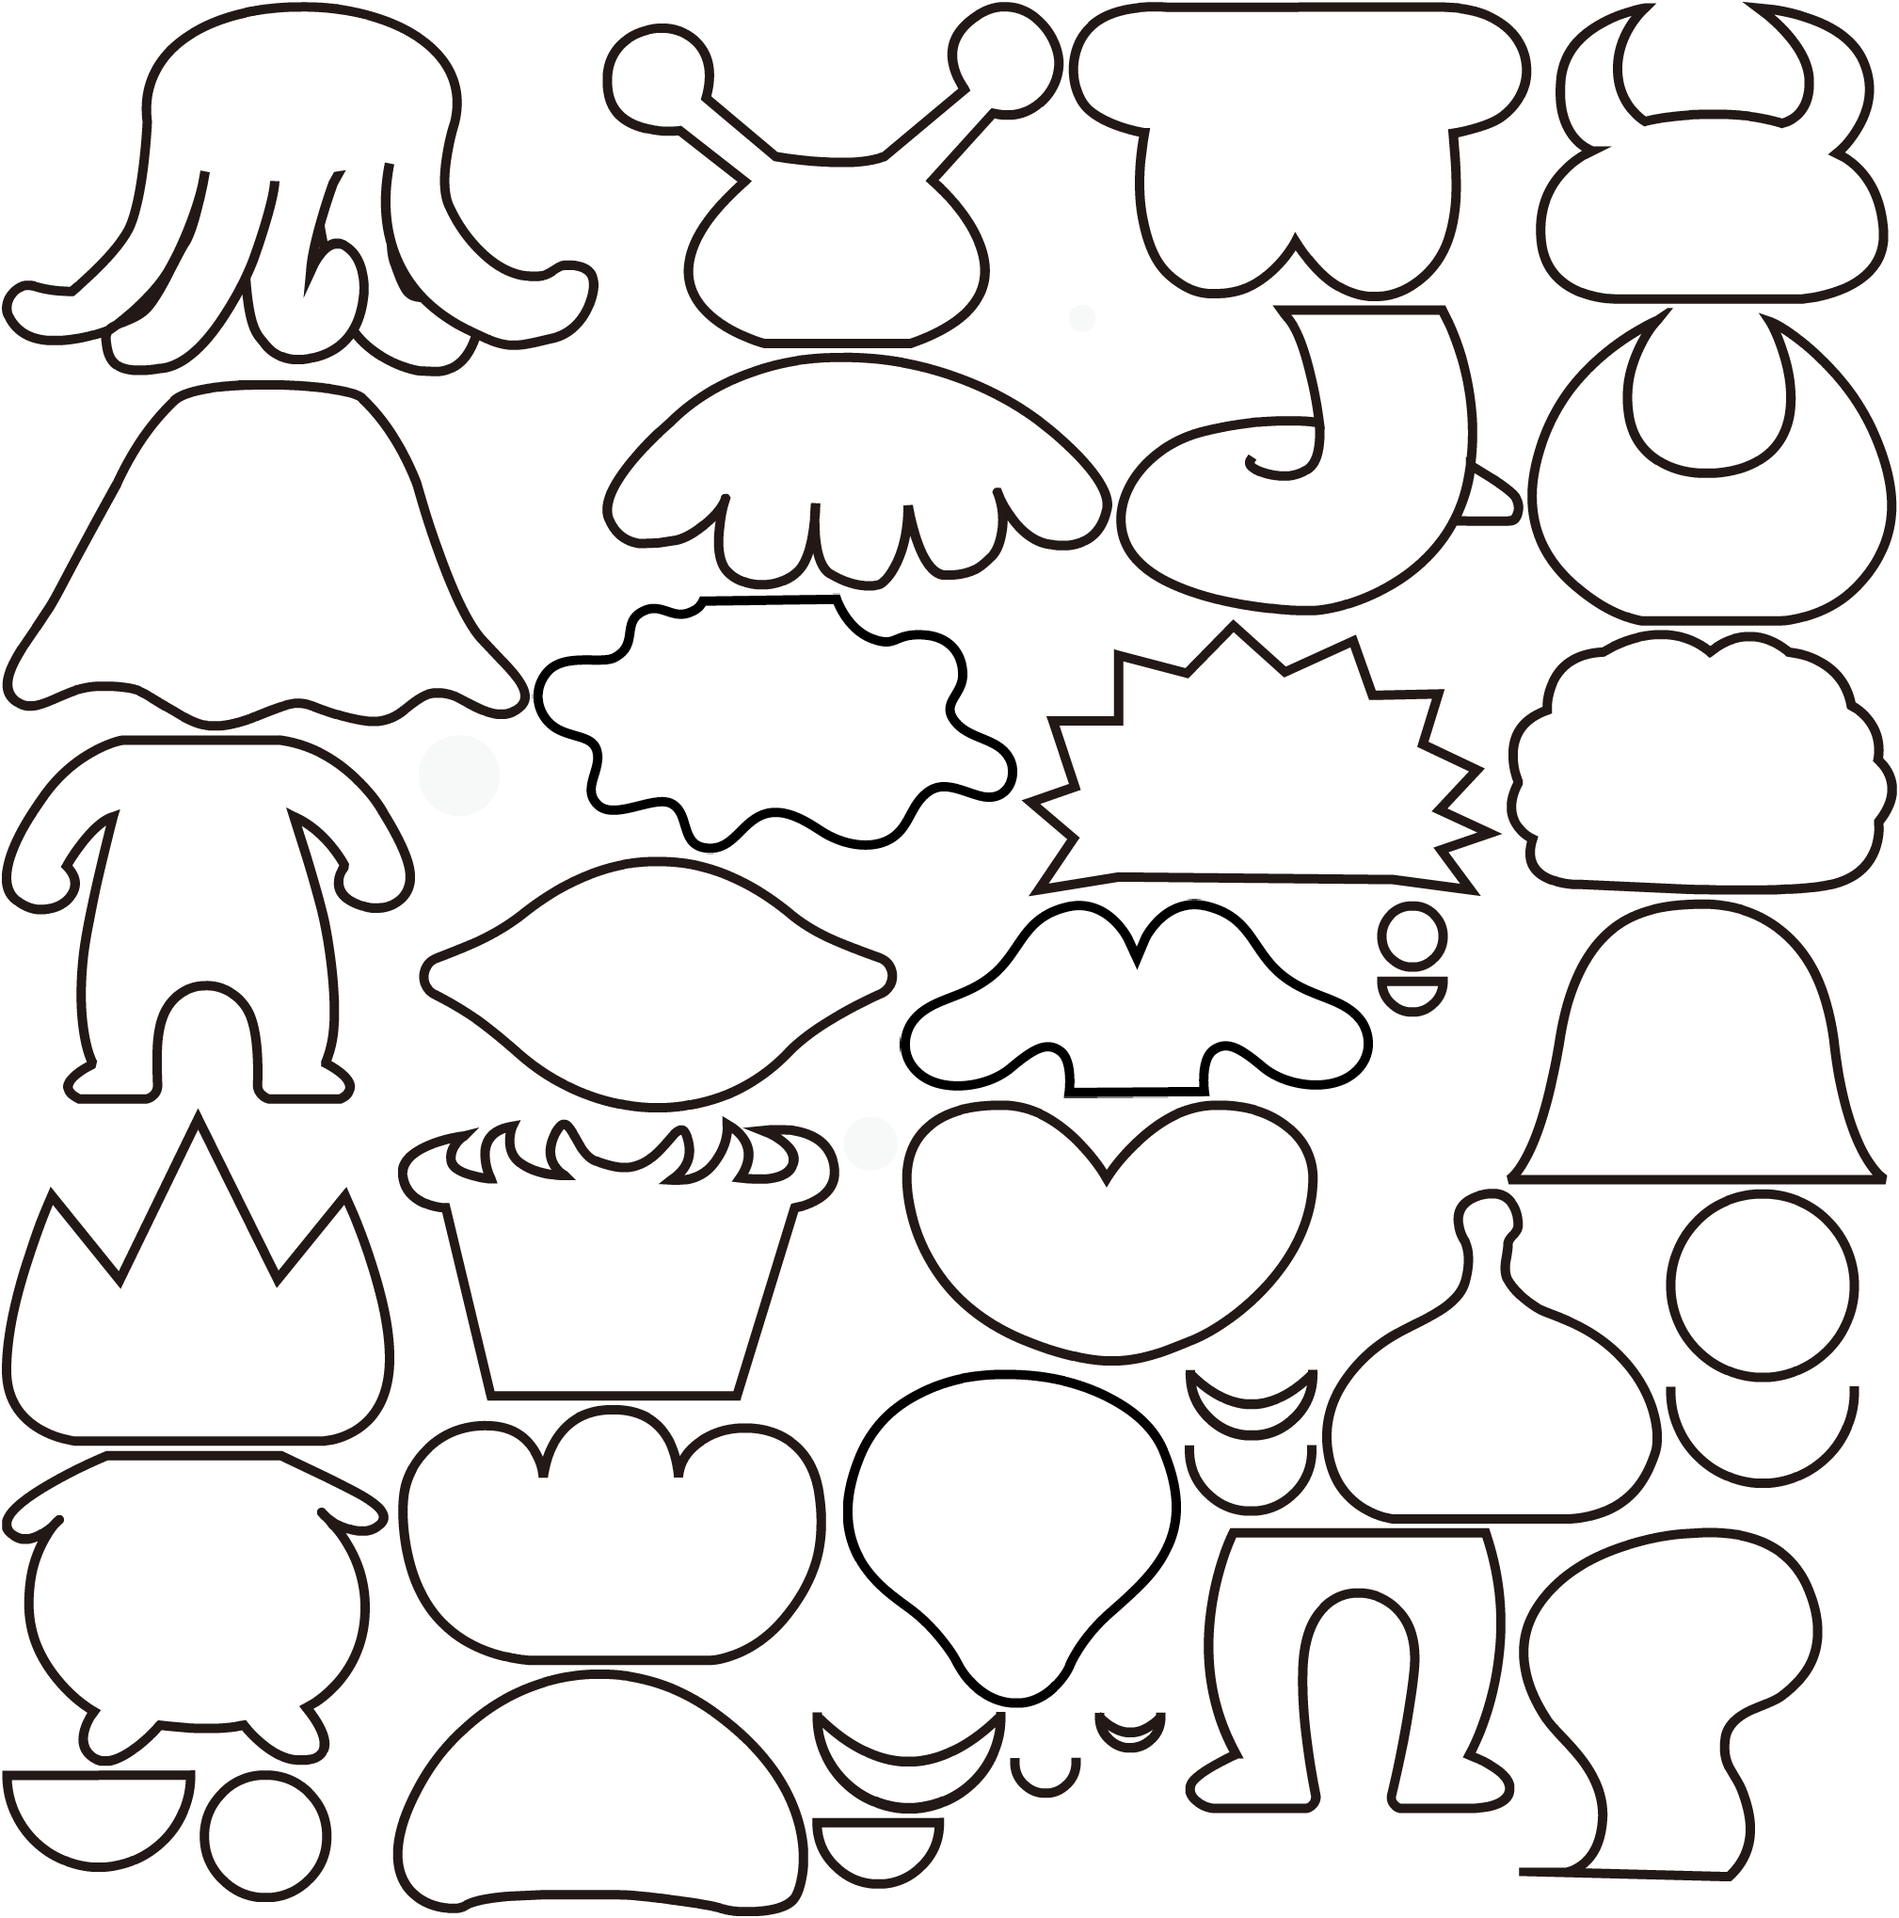
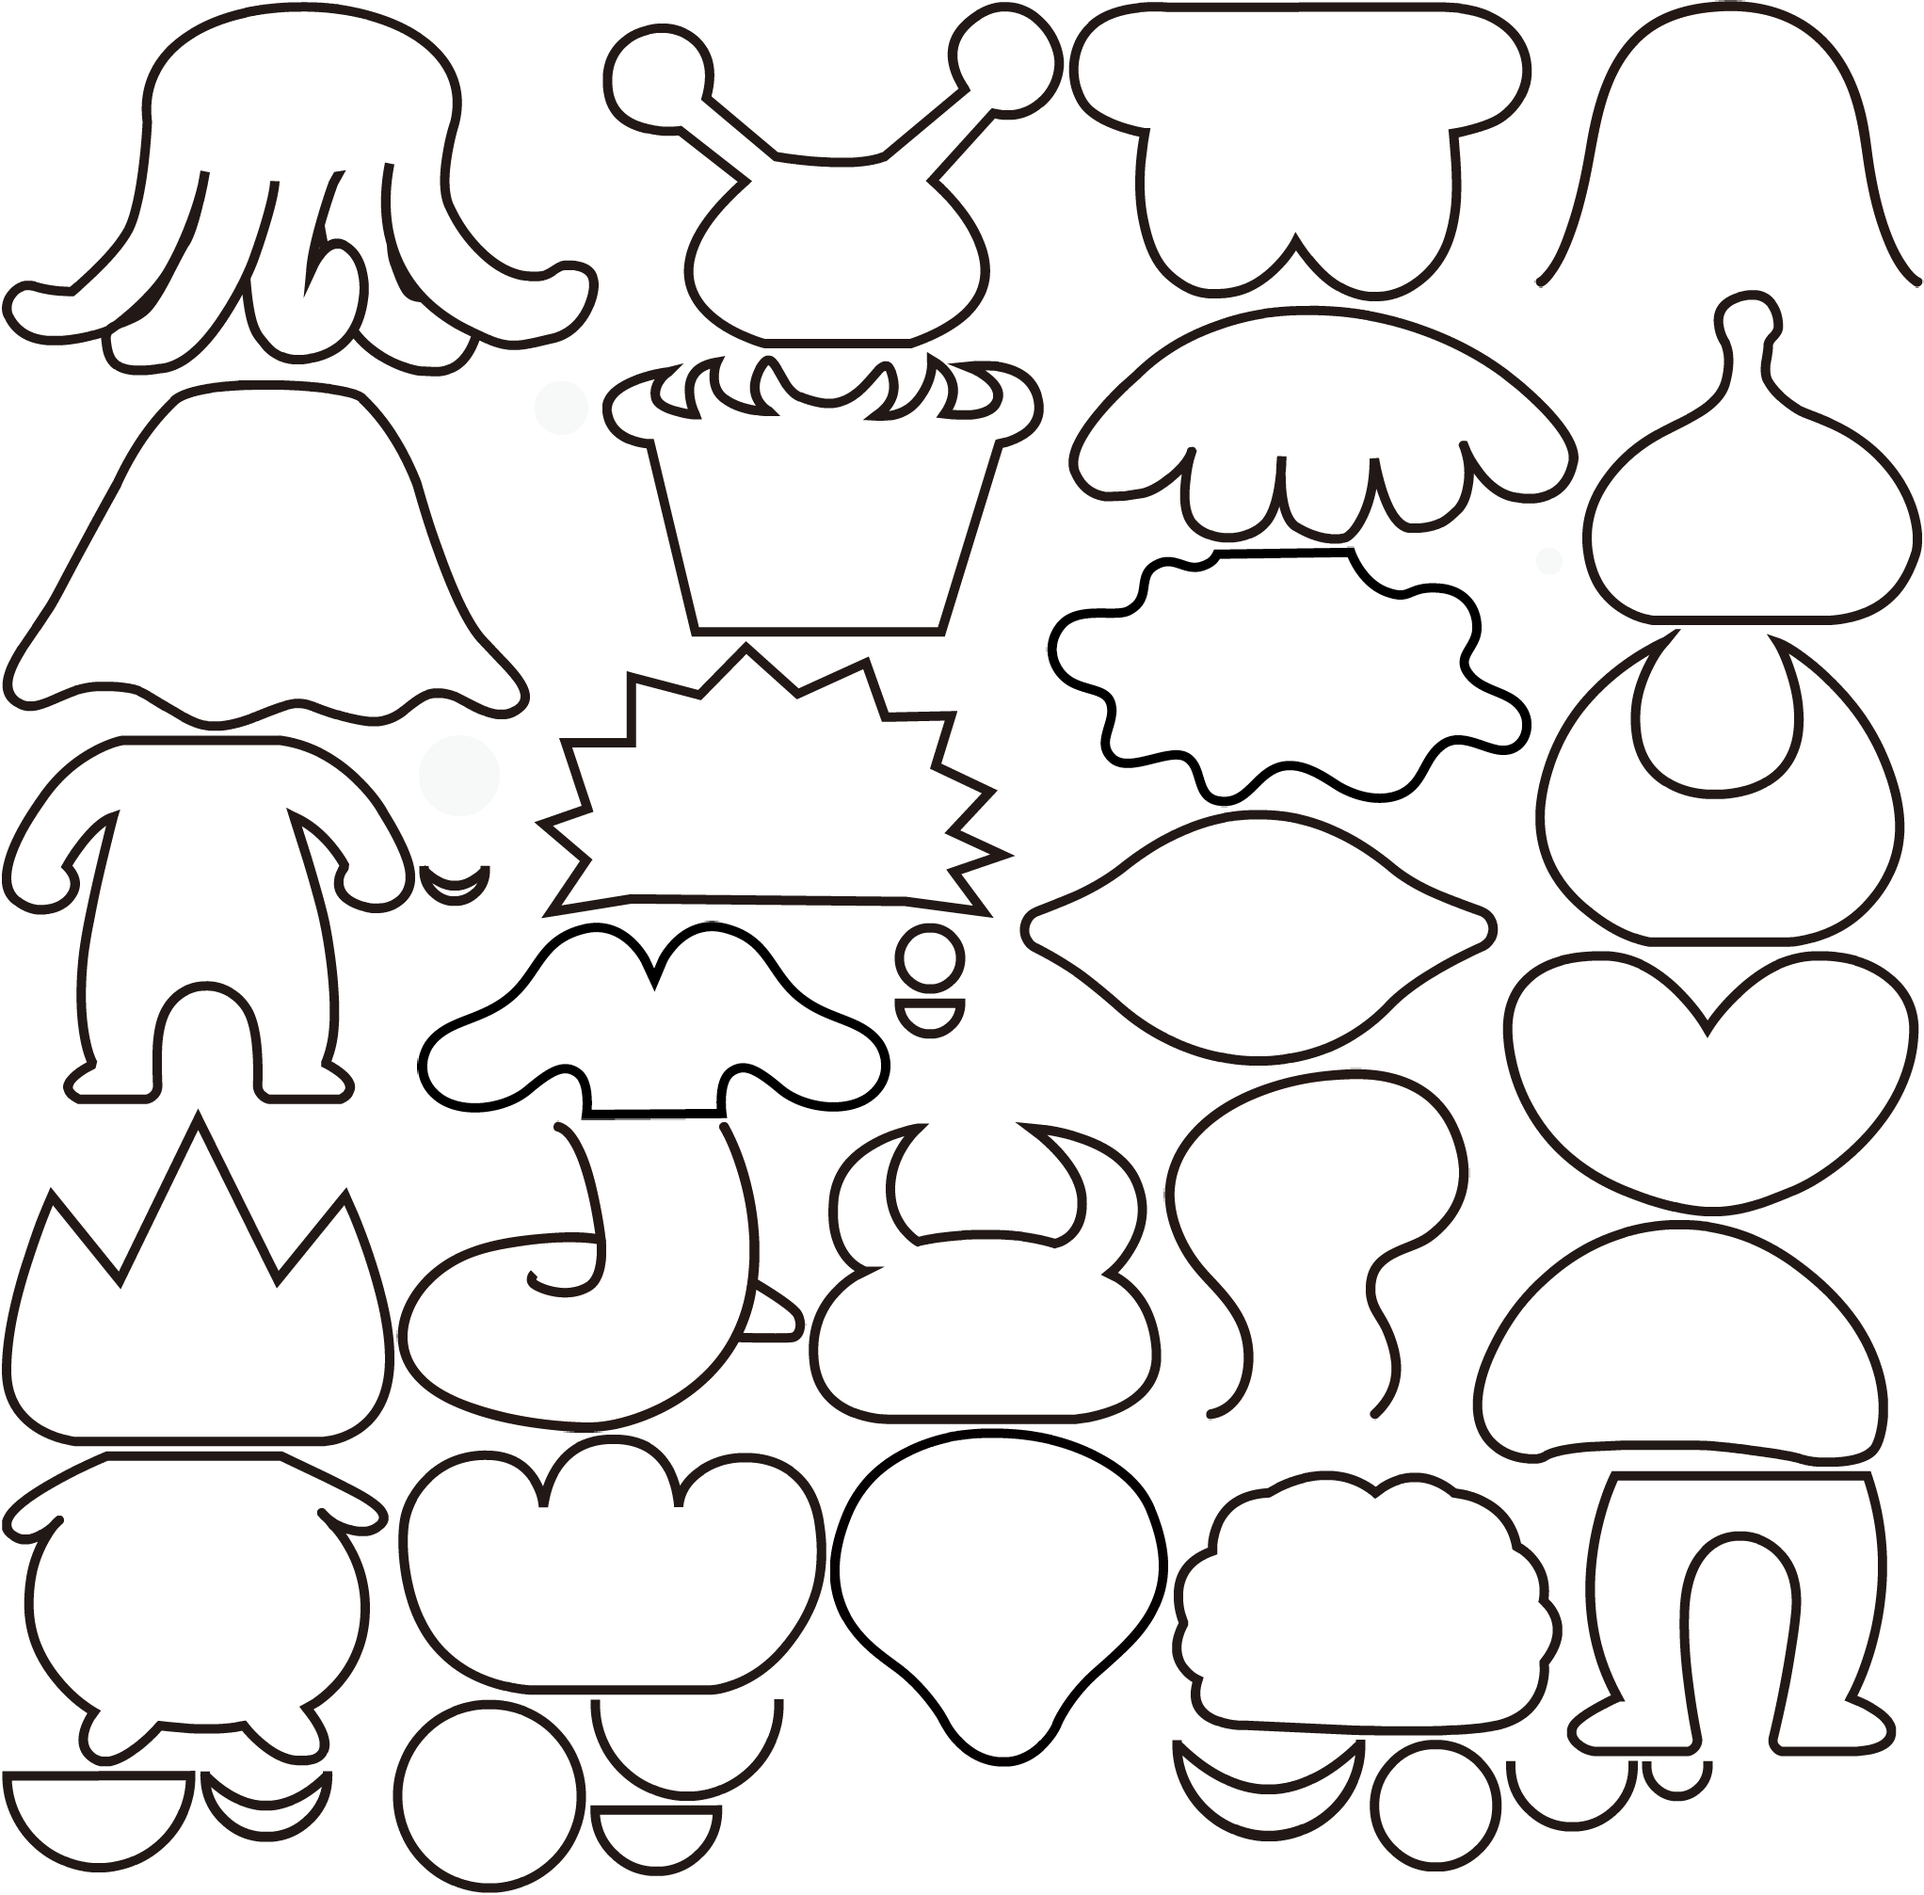
improved heads, bodies and combinations (wip)

diff --git a/alien.js b/alien.js
@@ -73,8 +73,8 @@ const bodyPartProps = {
         body15: { anchorY: 0.8 },
         body16: { anchorY: 0.7 },
         body17: { anchorY: 0.6 },
-        body18: { anchorX: 0.85, anchorY: 0.1 },
-        body19: { anchorY: 0.7 },
+        body18: { anchorX: 0.72, anchorY: 0.35 },
+        body19: { anchorY: 0.2 },
         body20: { anchorY: 0.7 },
         body21: { anchorY: 0.7 },
       },
@@ -91,7 +91,7 @@ const bodyPartProps = {
         body10: { anchorX: 0.52, anchorY: 0.7 },
         body13: { anchorX: 0.65, neckWidth: 0.3 },
         body14: { anchorY: 0.7 },
-        body18: { anchorX: 0.82, anchorY: 0.4 },
+        body18: { anchorX: 0.85, anchorY: 0.4 },
       },
     },
     // 2
@@ -108,7 +108,7 @@ const bodyPartProps = {
         body13: { anchorX: 0.67, neckWidth: 0.3 },
         body14: { anchorY: 0.75 },
         body17: { anchorY: 0.8 },
-        body18: { anchorX: 0.85, anchorY: 0.4 },
+        body18: { anchorX: 0.86, anchorY: 0.38 },
         body19: { anchorY: 0.67 },
         body21: { anchorY: 0.7 },
       },
@@ -147,7 +147,7 @@ const bodyPartProps = {
         body10: { anchorX: 0.51, anchorY: 0.6 },
         body13: { anchorX: 0.63, anchorY: 0.7, neckWidth: 0.2 },
         body14: { anchorY: 0.5 },
-        body18: { anchorX: 0.8, anchorY: 0.2 },
+        body18: { anchorX: 0.8, anchorY: 0.3 },
         body19: { anchorY: 0.5 },
         body21: { anchorY: 0.5 },
       },
@@ -204,7 +204,7 @@ const bodyPartProps = {
         body15: { anchorY: 0.7 },
         body16: { anchorY: 0.8 },
         body17: { anchorY: 0.7 },
-        body18: { anchorX: 0.85, anchorY: 0.1 },
+        body18: { anchorX: 0.86, anchorY: 0.1 },
         body19: { anchorY: 0.7 },
         body20: { anchorY: 0.8 },
         body21: { anchorY: 0.7 },
@@ -223,7 +223,7 @@ const bodyPartProps = {
         body14: { anchorY: 0.3 },
         body16: { anchorY: 0.5 },
         body17: { anchorY: 0.4 },
-        body18: { anchorX: 0.9, anchorY: 0.1 },
+        body18: { anchorX: 0.9, anchorY: 0.2 },
         body19: { anchorY: 0.4 },
         body21: { anchorY: 0.4 },
       },
@@ -231,20 +231,18 @@ const bodyPartProps = {
     // 9
     {
       anchorY: 0.9,
-      neckWidth: 1,
-      neckHeight: 0.05,
-      neckOffsetY: -0.025,
+      neckWidth: 0,
       combinations: {
-        body8: { anchorX: 0.55, anchorY: 0.65 },
-        body9: { anchorY: 0.7 }, // delete this after special combination is done
-        body11: { anchorX: 0.55, anchorY: 0.65 }, // delete this after special combination is done
-        body14: { anchorY: 0.74 },
-        body15: { anchorY: 0.74 }, // delete this after special combination is done
-        body16: { anchorY: 0.8 }, // delete this after special combination is done
-        body18: { anchorX: 0.75, anchorY: 0.18 }, // delete this after special combination is done
-        body21: { anchorY: 0.64 }, // delete this after special combination is done
+        body8: { anchorX: 0.56, anchorY: 0.65 },
+        body9: { anchorY: 0.7 },
+        body11: { anchorX: 0.545, anchorY: 0.64 },
+        body14: { anchorY: 0.72 },
+        body15: { anchorY: 0.75 },
+        body16: { anchorY: 0.83 },
+        body18: { anchorX: 0.65, anchorY: 0.27 },
+        body21: { anchorY: 0.61 },
       },
-      // speial combinations: body9, body10, body11, body12, body13, body15, body16, body17, body18, body19, body20, body21
+      // speial combinations: body10, body12, body13, body17, body18 (?), body19, body20
     },
     // 10
     {
@@ -290,10 +288,10 @@ const bodyPartProps = {
         body12: { anchorY: 0.7 },
         body13: { anchorX: 0.63, neckWidth: 0.2 },
         body14: { anchorY: 0.65 },
-        body15: { anchorY: 0.6 },
+        body15: { anchorY: 0.7 },
         body16: { anchorY: 0.77 },
         body17: { anchorY: 0.67 },
-        body18: { anchorX: 0.85, anchorY: 0.2, neckWidth: 0.25 },
+        body18: { anchorX: 0.7, anchorY: 0.25, neckWidth: 0.25 },
         body19: { anchorY: 0.7, neckWidth: 0.4 },
         body20: { anchorY: 0.8 },
         body21: { anchorY: 0.7 },
@@ -302,15 +300,21 @@ const bodyPartProps = {
     // 13
     {
       anchorY: 0.9,
-      neckWidth: 0.5,
-      neckHeight: 0.05,
-      neckOffsetY: -0.025,
+      neckWidth: 0,
       combinations: {
-        body8: { anchorY: 0.7, neckWidth: 1 },
-        body14: { anchorY: 0.7, neckWidth: 1 },
-        body16: { anchorY: 0.79, neckWidth: 1 },
+        body8: { anchorY: 0.7 },
+        body9: { anchorY: 0.93 },
+        body11: { anchorX: 0.49, anchorY: 0.95 },
+        body12: { anchorX: 0.45, anchorY: 0.7 },
+        body14: { anchorY: 0.7 },
+        body15: { anchorX: 0.43, anchorY: 0.94 },
+        body16: { anchorY: 0.85 },
+        body17: { anchorX: 0.42, anchorY: 0.93 },
+        body19: { anchorX: 0.45, anchorY: 0.5 },
+        body20: { anchorX: 0.45, anchorY: 0.85 },
+        body21: { anchorX: 0.435, anchorY: 0.9 },
       },
-      // special combinations: body9, body10, body11, body12, body13, body15, body17, body18, body19, body20, body21
+      // special combinations: body10, body13, body18, body19 (?)
     },
     // 14
     {
@@ -346,7 +350,8 @@ const bodyPartProps = {
         body11: { anchorX: 0.53, anchorY: 0.945 },
         body13: { anchorX: 0.645 },
         body14: { anchorY: 0.69 },
-        body18: { anchorX: 0.78, anchorY: 0.18 },
+        body18: { anchorX: 0.73, anchorY: 0.28 },
+        body21: { anchorY: 0.9 },
       },
       // special combinations: body3, body4, body6
     },
@@ -362,9 +367,10 @@ const bodyPartProps = {
         body7: { anchorX: 0.52, anchorY: 1.1 },
         body8: { anchorX: 0.51, anchorY: 0.98 },
         body10: { anchorX: 0.52, anchorY: 0.91 },
+        body11: { anchorX: 0.53, anchorY: 0.99 },
         body13: { anchorX: 0.645, anchorY: 0.99 },
         body14: { anchorY: 0.8 },
-        body18: { anchorX: 0.78, anchorY: 0.48 },
+        body18: { anchorX: 0.73, anchorY: 0.51 },
       },
       // special combinations: body3, body4, body6
     },
@@ -387,7 +393,7 @@ const bodyPartProps = {
         body13: { anchorX: 0.59, anchorY: 0.93, neckWidth: 0.3, neckOffsetX: -0.15 },
         body14: { anchorY: 0.8 },
         body17: { anchorX: 0.45, anchorY: 0.85 },
-        body18: { anchorX: 0.8, anchorY: 0.4 },
+        body18: { anchorX: 0.8, anchorY: 0.5 },
         body19: {
           anchorX: 0.47,
           anchorY: 0.8,
@@ -409,7 +415,7 @@ const bodyPartProps = {
         body13: { anchorX: 0.67, anchorY: 0.85 },
         body14: { anchorY: 0.7 },
         body17: { anchorY: 0.83 },
-        body18: { anchorX: 0.85, anchorY: 0.3 },
+        body18: { anchorX: 0.85, anchorY: 0.35 },
         body19: { anchorY: 0.83 },
         body21: { anchorY: 0.83 },
       },
@@ -426,7 +432,7 @@ const bodyPartProps = {
         body10: { anchorX: 0.52, anchorY: 0.82 },
         body13: { anchorX: 0.67, anchorY: 0.83 },
         body14: { anchorY: 0.69 },
-        body18: { anchorX: 0.85, anchorY: 0.3 },
+        body18: { anchorX: 0.85, anchorY: 0.35 },
       },
     },
   ],
@@ -444,7 +450,7 @@ const bodyPartProps = {
     // 5
     { anchorY: 0, neckWidth: 0.6 },
     // 6
-    { anchorX: 0.64, anchorY: 0, neckWidth: 0.3 },
+    { anchorX: 0.64, anchorY: 0, neckWidth: 0 },
     // 7
     { anchorY: 0.2, neckWidth: 0.8 },
     // 8
@@ -475,7 +481,7 @@ const bodyPartProps = {
     // 20
     { atlasKey: 'alien-2', anchorY: 0, neckWidth: 0.8 },
     // 21
-    { atlasKey: 'alien-3', anchorY: 0, neckWidth: 0.8 },
+    { atlasKey: 'alien-2', anchorY: 0, neckWidth: 0.8 },
   ],
   eyeballs: [
     // 0

diff --git a/alienator.js b/alienator.js
@@ -139,7 +139,6 @@ function preload() {
   game.load.atlas('assets', 'assets/assets.png', 'assets/assets.json', Phaser.Loader.TEXTURE_ATLAS_JSON_HASH)
   game.load.atlas('alien-1', 'assets/alien-1.png', 'assets/alien-1.json', Phaser.Loader.TEXTURE_ATLAS_JSON_HASH)
   game.load.atlas('alien-2', 'assets/alien-2.png', 'assets/alien-2.json', Phaser.Loader.TEXTURE_ATLAS_JSON_HASH)
-  game.load.atlas('alien-3', 'assets/alien-3.png', 'assets/alien-3.json', Phaser.Loader.TEXTURE_ATLAS_JSON_HASH)
   game.load.atlas(
     'alien-combinations-1',
     'assets/alien-combinations-1.png',

diff --git a/alien-viewer.js b/alien-viewer.js
@@ -19,7 +19,6 @@ const game = new Phaser.Game({
 function preload() {
   game.load.atlas('alien-1', 'assets/alien-1.png', 'assets/alien-1.json', Phaser.Loader.TEXTURE_ATLAS_JSON_HASH)
   game.load.atlas('alien-2', 'assets/alien-2.png', 'assets/alien-2.json', Phaser.Loader.TEXTURE_ATLAS_JSON_HASH)
-  game.load.atlas('alien-3', 'assets/alien-3.png', 'assets/alien-3.json', Phaser.Loader.TEXTURE_ATLAS_JSON_HASH)
   game.load.atlas(
     'alien-combinations-1',
     'assets/alien-combinations-1.png',

diff --git a/home.js b/home.js
@@ -29,7 +29,6 @@ const game = new Phaser.Game({
 function preload() {
   game.load.atlas('alien-1', 'assets/alien-1.png', 'assets/alien-1.json', Phaser.Loader.TEXTURE_ATLAS_JSON_HASH)
   game.load.atlas('alien-2', 'assets/alien-2.png', 'assets/alien-2.json', Phaser.Loader.TEXTURE_ATLAS_JSON_HASH)
-  game.load.atlas('alien-3', 'assets/alien-3.png', 'assets/alien-3.json', Phaser.Loader.TEXTURE_ATLAS_JSON_HASH)
   game.load.atlas(
     'alien-combinations-1',
     'assets/alien-combinations-1.png',
